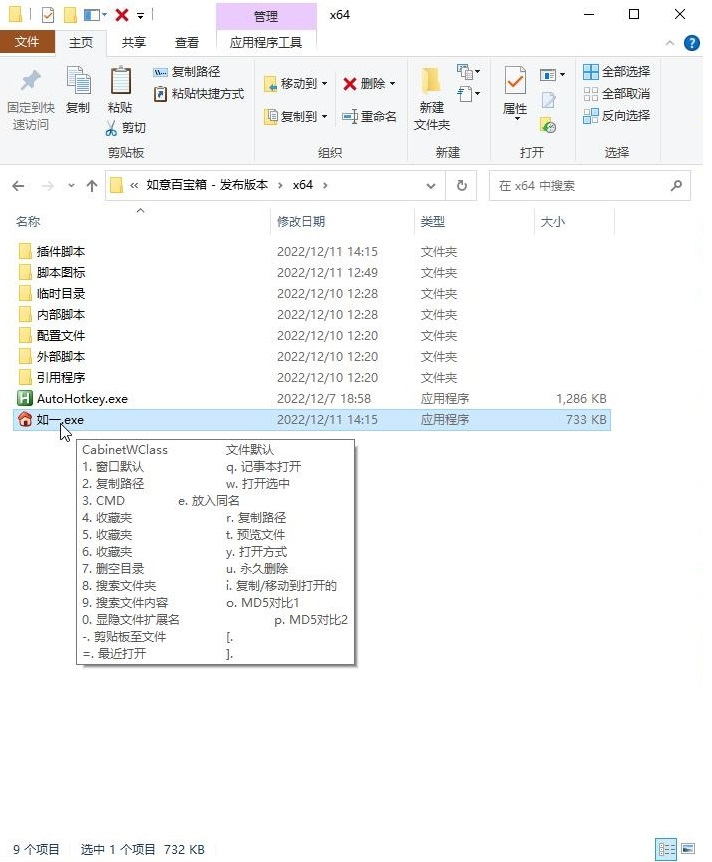
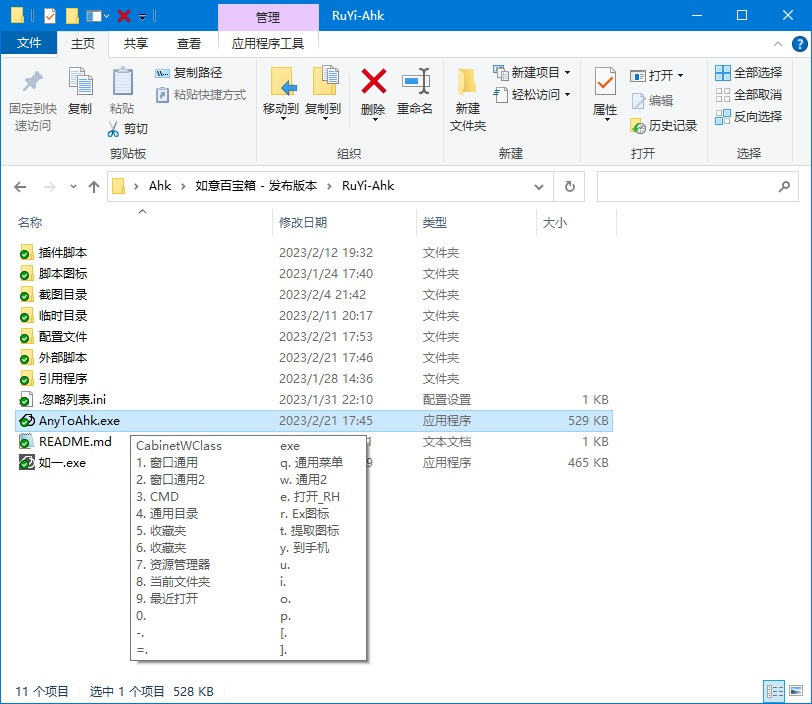
如意文档更新

Changed region(s): [[0.0, 0.0, 1.0, 1.0], [0.6798, 0.3125, 0.7107, 0.3438], [0.3399, 0.875, 0.3708, 0.9062]]

diff --git a/RuYi-Ahk/index.md b/RuYi-Ahk/index.md
@@ -19,7 +19,7 @@ layout: default
 ### [](#header-3)功能介绍
 如意百宝箱受到类似软件 Quicker, Ahk 的 Windy 和 Candy 脚本的影响, 是一款由 AutoHotkey 脚本语言编写的快速启动软件. 打开 "如一.exe" 即启动了程序, 然后在不同的窗口按下鼠标中键即可显示定制的动作面板, 也可以使用鼠标手势 "上右" 来显示主面板. 欢迎大家试用, 非常渴望倾听您的声音。欢迎您的任何意见、建议、疑问、吐槽，或者鼓励。  
   
-- <span id="hotkey">快捷键</span>
+- <span id="hotkey">**快捷键**</span>
   - Mbutton 默认的快捷键是鼠标中键, 可以右键托盘菜单的热键管理菜单自定义为其他按键. 按下后显示一个动作主面板, 主面板由上面的 12 个按钮(针对当前窗口)和下面的 12 个按钮(针对选中的文字, 或文件, 由 Ctrl+C 获取) 组成, 其中每个按钮执行一个指定的动作.  
   - 鼠标手势 默认的鼠标手势"上右"来显示主面板, 可以在配置文件 "如一.ini" 中修改为其他.  
     - 下图是主面板图片  
@@ -31,7 +31,7 @@ layout: default
   - CapLocks 热键为不可更改的固定热键. 按下后将面板界面转为纯按键模式, 工具提示中的每个按键(0-9,q-])执行一个动作.  
   ![Image text](../img/按键模式.jpg)  
 
-- <span id="Board">面板</span>
+- <span id="Board"><b>面板</b></span>
   - 面板的设置保存在 "配置文件/面板列表.ini" 文件中. 面板分为三种类型: 窗口进程名和Class(如资源管理器的 [explorer] [CabinetWClass], [Progman]), 文件扩展名后缀(如 txt, 短文本, 文件夹)和自定义名称. 前两种会根据优先级自动显示在主面板界面(按下热键后根据窗口类名和选中内容自动匹配), 后者多用于子面板(由主面板上的按钮来启动).  
   .1 主面板上部面板顺序(优先级): 进程名 > 窗口 Class > 窗口默认  
   .2 主面板下部面板顺序: 选中文件扩展名 > 文件默认 > 无选中  
@@ -42,7 +42,7 @@ layout: default
   - 下图为面板中的按钮编辑界面, 指定按钮的要执行动作的编号.  
   ![Image text](../img/按钮编辑.jpg)  
 
-- <span id="Action">动作</span>  
+- **<span id="Action">动作</span>**  
   - 动作的的设置保存在 "配置文件/动作列表.ini" 文件中. 动作有以下类别: 运行(Run), 面板(Gui), 菜单(Menu), 发送按键(Key), 内置命令和函数(Cando 和 CanFunc) 等. 面板上的按钮对应一个动作, 点击面板上的按钮就会执行相应的动作.  
      - 运行: 运行程序, 打开文件(文件夹, 网址). 如打开C盘写为 "Run&#124;C:", 打开记事本写为 "Run&#124;notepad.exe". 要运行的外部 Ahk 脚本统一放在 "外部脚本" 目录.  
      - 面板: 在主面板上点击按钮后, 显示一个子面板. 动作写作 "Gui&#124;常用工具"  
@@ -51,14 +51,14 @@ layout: default
   -  [完整的内置动作列表](ActionList.md)  
   - 动作的管理由托盘菜单的 "动作管理" 和面板按钮编辑界面的 转到动作编辑 按钮来启动.   
   动作管理界面可以编辑动作, 例如修改动作的图标, 名称, 针对的对象, 热键, 鼠标手势, 说明文本, 动作的命令. 也可以在这里创建新的动作(自定义动作编号 >5000).  
-  版本[1.5 ]  
+  版本[1.5]  
   .1 新增 动作的单独热键, 如 "^!a", 表示 Ctrl + Alt + a 热键  
   .2 新增 动作的单独鼠标手势, 如 "左", 表示按下鼠标右键想左拖, 默认配置是将窗口放到左半屏幕.  
   .3 默认配置中  鼠标手势 "上右"  打开主界面, 可以在配置文件 "如一.ini" 中修改, 也可以整体关闭鼠标手势.  
   ![Image text](../img/动作管理.jpg)
 
-- <span id="Script">外部脚本</span>
-  - 许多动作是由外部的 ahk 脚本来完成的, 它们统一放在 "外部脚本" 目录. 现在内置的外部动作脚本有 77 个.  
+- **<span id="Script">外部脚本</span>**
+  - 许多动作是由外部的 ahk 脚本来完成的, 它们统一放在 "外部脚本" 目录. 现在内置的外部动作脚本有 84 个.  
     下面列出了内置的外部脚本动作, 第二列为外部动作脚本是否集成在 AnyToAhk.exe(ATA) 中.  
 
 | 动作编号 | ATA内置 | 按钮名称 | 动作对象 | 描述 |
@@ -158,4 +158,11 @@ layout: default
 |1211|是|下一页|Chrome|Chrome 浏览器自动下一页|
 |1212|是|Ini_Fav|选中文件|Ini 文件式的收藏夹菜单|
 |1213|是|Ini_Opw|选中文件|Ini 文件式的程序菜单, 使用菜单中的程序打开选中的文件|
-|1214|是|百度搜索|选中文件|百度搜索选中文件的文件名
+|1214|是|百度搜索|选中文件|百度搜索选中文件的文件名|
+|1217|是|到手机|无条件|同步电脑文件夹到手机文件夹(参数指定文件夹)
+|1219|是|到手机|选中文件|发送电脑选中文件到手机的根目录
+|1220|是|放入剪贴板|选中文件|将选中的文本文件内容放入剪贴板
+|1222|否|360收藏夹|无条件|将360浏览器的收藏夹显示为菜单
+|1223|是|Chrome收藏夹|无条件|将Chrome浏览器的收藏夹显示为菜单
+|1224|是|Edge收藏夹|无条件|将Edge浏览器的收藏夹显示为菜单
+|1225|否|文件库搜索|选中文件|使用文件名搜索文件库中的文件

diff --git a/RuYi-Ahk/ActionList.md b/RuYi-Ahk/ActionList.md
@@ -225,3 +225,13 @@ layout: default
 |1214|f6fa|百度搜索|选中文件|百度搜索选中文件的文件名|run&#124;"%B_Autohotkey%" "%A_ScriptDir%\外部脚本\窗口处理\当前浏览器打开.ahk" https://www.baidu.com/s?wd=%CandySel_FileName%|
 |1215|f093|Adb|子面板|手机Adb的子面板|Gui&#124;Adb|
 |1216|e898|收藏夹|Chrome|快捷键打开Chrome的收藏夹|Keys&#124;^+o|
+|1217|e89a|到手机|无条件|同步电脑文件夹到手机文件夹(参数指定文件夹)|run&#124;"%B_Autohotkey%" "%A_ScriptDir%\外部脚本\文件处理\同步文件夹到手机.ahk" "H:\备份\同步文件夹" "/storage/emulated/0/1_文档/资料/同步文件夹"|
+|1218|e952|连接手机|无条件|使用adb连接到手机|run&#124;%A_ScriptDir%\引用程序\adb.exe connect 192.168.1.109:5555|
+|1219|e89a|到手机|选中文件|发送电脑选中文件到手机的根目录|run&#124;"%B_Autohotkey%" "%A_ScriptDir%\外部脚本\文件处理\发送文件到手机目录.ahk" "%CandySel%"|
+|1220|e16d|放入剪贴板|选中文件|将选中的文本文件内容放入剪贴板|run&#124;"%B_Autohotkey%" "%A_ScriptDir%\外部脚本\文件处理\文本文件内容放入剪贴板.ahk" "%CandySel%"|
+|1221|E734|收藏夹|子面板|浏览器收藏夹菜单的子面板|Gui&#124;浏览器收藏夹|
+|1222|E734|360收藏夹|无条件|将360浏览器的收藏夹显示为菜单|run&#124;"%B_Autohotkey%" "%A_ScriptDir%\外部脚本\文件处理\360浏览器收藏夹.ahk"|
+|1223|E734|Chrome收藏夹|无条件|将Chrome浏览器的收藏夹显示为菜单|run&#124;"%B_Autohotkey%" "%A_ScriptDir%\外部脚本\文件处理\Chrome收藏夹.ahk"|
+|1224|e16d|Edge收藏夹|无条件|将Edge浏览器的收藏夹显示为菜单|run&#124;"%B_Autohotkey%" "%A_ScriptDir%\外部脚本\文件处理\MsEdge收藏夹.ahk"|
+|1225|e8a3|文件库搜索|选中文件|使用文件名搜索文件库中的文件|run&#124;"%B_Autohotkey%" "%A_ScriptDir%\外部脚本\文件处理\文件夹处理\数据库_文件库中搜索文件.ahk" "%CandySel_FileNameNoExt%"|
+

diff --git a/RuYi-Ahk/history.md b/RuYi-Ahk/history.md
@@ -9,6 +9,18 @@ layout: default
 下面列出了如意百宝箱发布以来的变更和新增内容.  
 
 # [](#header-2) 更新历史
+### [](#header-3) 1.6  2023/03/_  
+1. 按键模式文字对齐  
+2. 面板管理新增重命名和复制功能  
+3. 新增 外部脚本  
+.1 360浏览器收藏夹.ahk  
+.2 Chrome收藏夹.ahk  
+.3 MsEdge收藏夹.ahk  
+.4 发送文件到手机目录.ahk  
+.5 同步文件夹到手机.ahk  
+.6 数据库_文件库中搜索文件.ahk  
+.7 文本文件内容放入剪贴板.ahk  
+
 ### [](#header-3) 1.5  2023/02/21  
 1.  新增 指定单独的热键来打开动作  
 2.  新增 指定鼠标手势来打开动作  
@@ -21,8 +33,8 @@ layout: default
 .4 数字_十进制十六进制转换.ahk  
 .5 数字_查看代码对应的颜色.ahk  
 .6 窗口_显示或隐藏.ahk  
-.7 Ini_收藏夹菜单.ahk
-.8 Ini_程序打开选中文件.ahk
+.7 Ini_收藏夹菜单.ahk  
+.8 Ini_程序打开选中文件.ahk  
 5.  修改 外部脚本  
 .1 修改  打开的文件夹同步.ahk  
 .1.1 可以在 ".忽略列表.ini" 文件中 [判断依据] →设置→ 判断类型=最近修改时间 不使用md5来判断文件是否相等  
